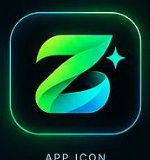
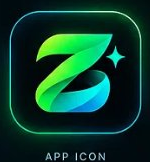
fix(branding): replace pixelated neon placeholder with authentic 3D ribbon Zoe Intelligence mark and typography across all platforms

diff --git a/saas-dashboard/frontend/src/components/zoe-logo.tsx b/saas-dashboard/frontend/src/components/zoe-logo.tsx
@@ -4,7 +4,7 @@ import Image from "next/image"
 interface ZoeLogoProps {
   className?: string
   size?: number | string
-  variant?: "mark" | "full" | "app-icon" | "watermark" | "horizontal"
+  variant?: "mark" | "full" | "app-icon" | "watermark" | "horizontal" | "monochrome"
   withSparkle?: boolean
   glow?: boolean
   badge?: string
@@ -47,7 +47,25 @@ export function ZoeLogo({
           alt="Zoe App Icon"
           width={numericSize}
           height={numericSize}
-          className="w-full h-full object-contain rounded-2xl shadow-lg shadow-[#00e599]/10"
+          className="w-full h-full object-contain rounded-2xl shadow-lg shadow-[#00e599]/15"
+        />
+      </div>
+    )
+  }
+
+  if (variant === "monochrome") {
+    return (
+      <div
+        className={`relative inline-flex items-center justify-center shrink-0 ${className}`}
+        style={{ width: numericSize, height: numericSize }}
+      >
+        <Image
+          src="/zoe-monochrome.png"
+          alt="Zoe Monochrome"
+          width={numericSize}
+          height={numericSize}
+          className="w-full h-full object-contain"
+          priority
         />
       </div>
     )
@@ -71,7 +89,7 @@ export function ZoeLogo({
   if (variant === "full") {
     return (
       <div className={`flex items-center gap-3 ${className}`}>
-        {/* 3D Ribbon 'Z' Brand Mark */}
+        {/* 3D Ribbon 'Z' Brand Mark with Green-Cyan Gradient and Mint Sparkle */}
         <div
           className={`relative flex items-center justify-center shrink-0 ${
             glow ? "drop-shadow-[0_0_12px_rgba(0,229,153,0.35)]" : ""
@@ -80,7 +98,7 @@ export function ZoeLogo({
         >
           <Image
             src="/zoe-mark.png"
-            alt="Zoe"
+            alt="Zoe Mark"
             width={numericSize}
             height={numericSize}
             className="w-full h-full object-contain"
@@ -88,7 +106,7 @@ export function ZoeLogo({
           />
         </div>
 
-        {/* Brand Text Typography Matching Brand Sheet */}
+        {/* Brand Text Typography Matching Official Brand Kit */}
         <div className="flex flex-col select-none leading-none">
           <div className="flex items-center gap-2">
             <span
@@ -98,13 +116,13 @@ export function ZoeLogo({
               Zoe
             </span>
             {badge && (
-              <span className="text-[9px] font-mono uppercase px-1.5 py-0.5 rounded bg-[#00e599]/10 text-[#00e599] border border-[#00e599]/30 font-bold tracking-wider leading-none">
+              <span className="text-[9px] font-mono uppercase px-1.5 py-0.5 rounded bg-emerald-500/10 text-[#00e599] border border-emerald-500/30 font-bold tracking-wider leading-none shadow-sm shadow-[#00e599]/10">
                 {badge}
               </span>
             )}
           </div>
           <span
-            className="font-bold tracking-[0.22em] text-[#00e599] uppercase mt-1 leading-none font-sans"
+            className="font-bold tracking-[0.24em] text-[#00f0ff] uppercase mt-1 leading-none font-sans"
             style={{ fontSize: Math.max(9, numericSize * 0.22) }}
           >
             Intelligence

diff --git a/saas-dashboard/frontend/src/app/admin/overview/page.tsx b/saas-dashboard/frontend/src/app/admin/overview/page.tsx
@@ -35,6 +35,7 @@ import {
 } from "lucide-react"
 import "./overview.css"
 import { api, logout, Project } from "@/lib/api"
+import { ZoeLogo } from "@/components/zoe-logo"
 
 interface UIProject {
   id: string
@@ -301,11 +302,7 @@ export default function ZoeDashboard() {
       )}
       <aside className={`sidebar ${mobileMenuOpen ? "open" : ""}`}>
         <div className="brand">
-          <div className="brand-mark">✦</div>
-          <div>
-            <b>Zoe</b>
-            <small>Intelligence Engine</small>
-          </div>
+          <ZoeLogo size={36} glow variant="full" badge="ADMIN" />
         </div>
 
         <nav className="nav-links">
